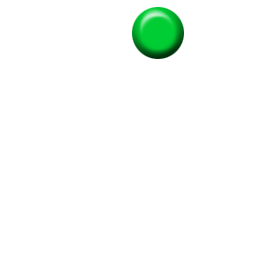
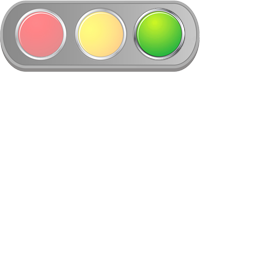
修改红绿灯显示

Changed region(s): [[0.0, 0.0, 0.7812, 0.2812]]

diff --git a/selfdrive/ui/carrot.cc b/selfdrive/ui/carrot.cc
@@ -1330,11 +1330,11 @@ public:
         if (blinker_timer <= 8) {
             if (right_blinker) {
 		_right_blinker = true;
-                ui_draw_image(s, { x - icon_size / 2 + 20, y - icon_size / 2, icon_size, icon_size }, "ic_blinker_r", 1.0f);
+                ui_draw_image(s, { x - icon_size / 2 + 60, y - icon_size / 2, icon_size, icon_size }, "ic_blinker_r", 1.0f);
             }
             if (left_blinker) {
 		_left_blinker = true;
-                ui_draw_image(s, { x - icon_size / 2 - 20, y - icon_size / 2, icon_size, icon_size }, "ic_blinker_l", 1.0f);
+                ui_draw_image(s, { x - icon_size / 2 - 60, y - icon_size / 2, icon_size, icon_size }, "ic_blinker_l", 1.0f);
             }
         }
     }
@@ -2301,19 +2301,19 @@ public:
 
     void drawTrafficLight(UIState* s) {
         nvgTextAlign(s->vg, NVG_ALIGN_CENTER | NVG_ALIGN_BOTTOM);
-        int x = 240;
-        int y = 20;
+        int x = 20;
+        int y = 250;
         int icon_red = icon_size;
         int icon_green = icon_size;
         bool red_light = trafficState == 1;
         bool green_light = trafficState == 2;
         if(trafficState_carrot == 1) {
 			red_light = true;
-            icon_red *= 1.5;
+            //icon_red *= 1.5;
 		}
 		else if(trafficState_carrot == 2) {
 			green_light = true;
-            icon_green *= 1.5;
+            //icon_green *= 1.5;
 		}
         if (red_light) ui_draw_image(s, { x, y, icon_red, icon_red }, "ic_traffic_red", 1.0f);
         else if (green_light) ui_draw_image(s, { x, y, icon_green, icon_green }, "ic_traffic_green", 1.0f);
